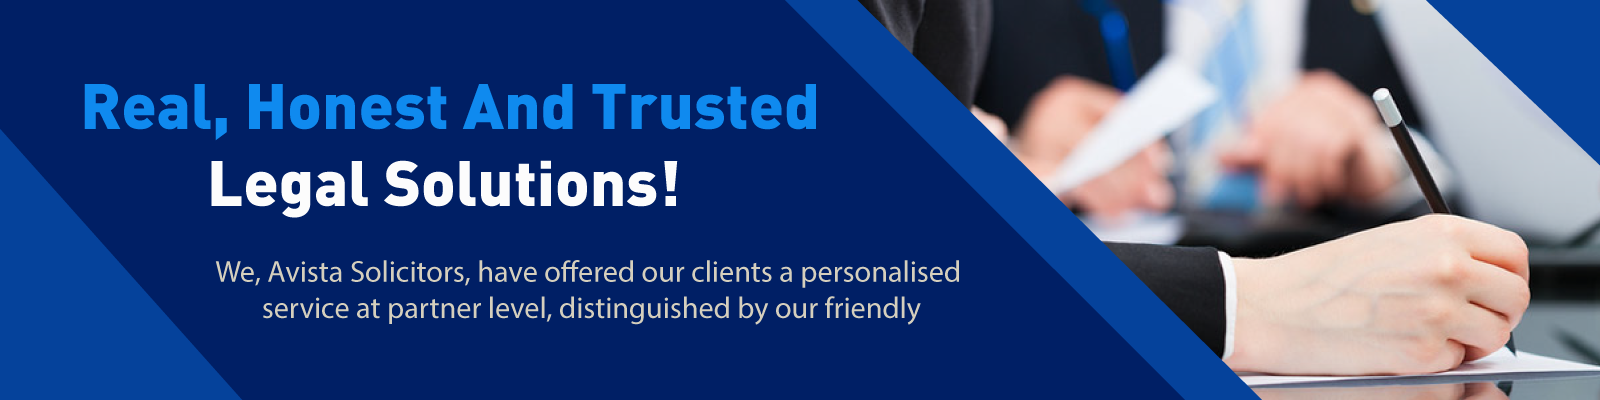
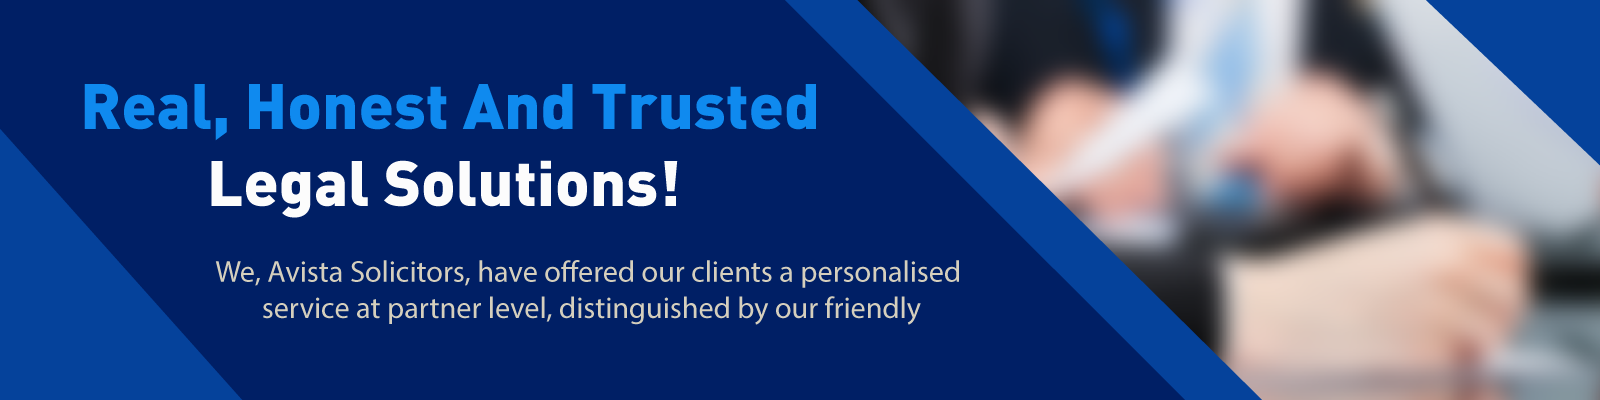
dsf

diff --git a/index.html b/index.html
@@ -100,23 +100,23 @@
         </div>
     </section>
     <!-- slider -->
-    <div id="carouselMain" class="carousel carousel-fade carousel-dark slide" data-bs-ride="carousel">
+    <div id="carouselMain" class="carousel   carousel-dark slide" data-bs-ride="carousel">
         <div class="carousel-indicators">
             <button type="button" data-bs-target="#carouselMain" data-bs-slide-to="0" class="active" aria-current="true"
                 aria-label="Slide 1"></button>
             <button type="button" data-bs-target="#carouselMain" data-bs-slide-to="1" aria-label="Slide 2"></button>
-            <button type="button" data-bs-target="#carouselMain" data-bs-slide-to="2" aria-label="Slide 3"></button>
+            <!-- <button type="button" data-bs-target="#carouselMain" data-bs-slide-to="2" aria-label="Slide 3"></button> -->
         </div>
         <div class="carousel-inner">
             <div class="carousel-item active">
-                <img src="./images/slider/1.png" class="d-block w-100" alt="...">
+                <img src="./images/slider/2.png" class="d-block w-100">
             </div>
             <div class="carousel-item">
-                <img src="./images/slider/2.jpg" class="d-block w-100" alt="...">
-            </div>
-            <div class="carousel-item">
+                <img src="./images/slider/1.png" class="d-block w-100">
+            </div> 
+            <!-- <div class="carousel-item">
                 <img src="./images/slider/3.jpg" class="d-block w-100" alt="...">
-            </div>
+            </div> -->
         </div>
         <button class="carousel-control-prev" type="button" data-bs-target="#carouselMain" data-bs-slide="prev">
             <span class="carousel-control-prev-icon" aria-hidden="true"></span>
@@ -313,8 +313,10 @@
                 </div>
             </div>
         </div>
-        <div class="row">
-            <div class="elfsight-app-67c5b861-1cb6-4681-afb8-b1446fc4308c"></div>
+        <div class="row text-center"> 
+          <div class="container">
+            <img class="img-fluid"src="./images/review.png" alt="">
+          </div>
         </div>
     </section>
 
@@ -424,9 +426,9 @@
             </div>
         </div>
     </footer>
-
+    
     <script src="js/bootstrap-5.bundle.min.js"></script>
-    <script src="https://apps.elfsight.com/p/platform.js" defer></script>
+    <script src="https://apps.elfsight.com/p/platform.js" defer></script> 
     <script src="js/iconify.min.js"></script>
     <script src="js/app.js"></script>
     <script src="https://code.jquery.com/jquery-2.2.0.min.js" type="text/javascript"></script>
